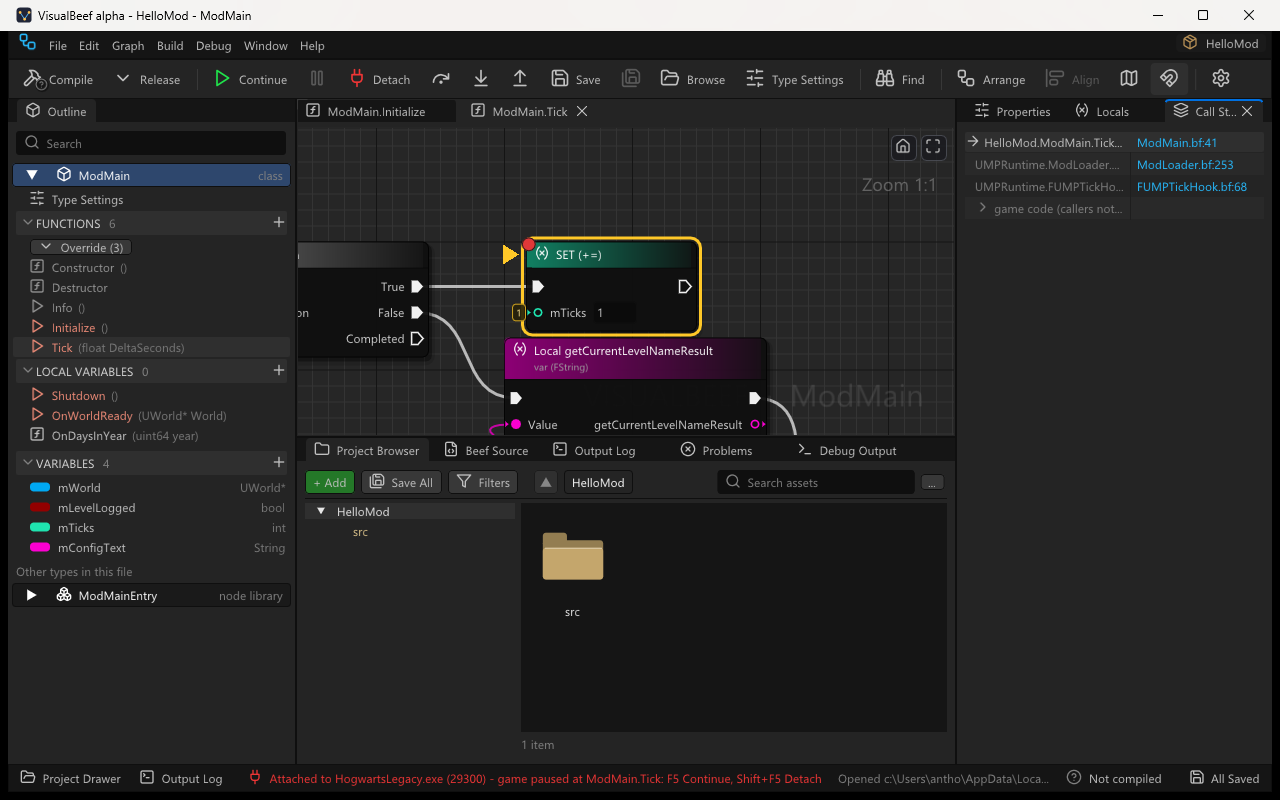
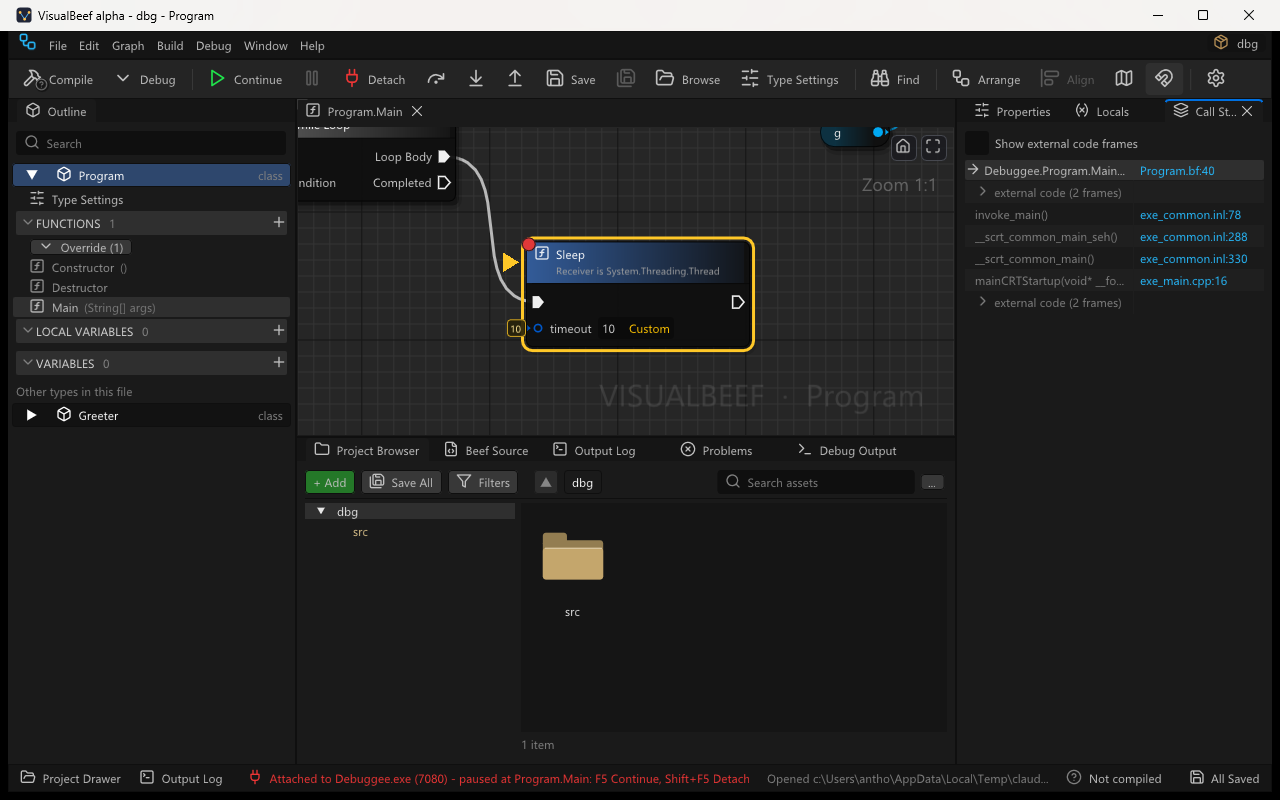
VisualBeef 0.2.3-alpha: generic host contract

diff --git a/docs/Debugging.md b/docs/Debugging.md
@@ -101,11 +101,11 @@ a game started by a host tool. VisualBeef cannot start that program itself, so i
    keeps running. Closing VisualBeef while attached detaches too, and so does VisualBeef ending in any
    other way: attaching never kills the process.
 
-While attached the status bar is **red**: `Attached to Game.exe (14852) - running`, or
-`- paused at ToolMain.Tick: F5 Continue, Shift+F5 Detach` while it is stopped. A paused process
+While attached the status bar is **red**: `Attached to Program.exe (14852) - running`, or
+`Attached to Program.exe (14852) - paused at Program.Main: F5 Continue, Shift+F5 Detach` while it is stopped. A paused process
 stays paused until you continue or detach.
 
-![Stopped in a project's Tick inside a running program](images/debug-attached.png)
+![Stopped in a project's Main inside a running program](images/debug-attached.png)
 
 * **Call Stack**: your project's frames (and those of any other module with symbols) are normal rows;
   runs of frames without source (the program's own code) are one dimmed **external code** row. Tick

diff --git a/docs/CHANGELOG.md b/docs/CHANGELOG.md
@@ -9,7 +9,7 @@ order: 25
 
 Newest first. Dates are commit dates; commit ids refer to the development history before the public repository was created.
 
-## Unreleased: generic host contract (VisualBeef no longer names UMP)
+## 0.2.3-alpha: generic host contract (VisualBeef no longer names UMP)
 
 VisualBeef was bound to one host, UMP (UnrealUMP / Universal Unreal Mod Platform). It now has one
 generic contract any host tool uses (docs/Host-Integration.md, replacing docs/UMP-Integration.md),
